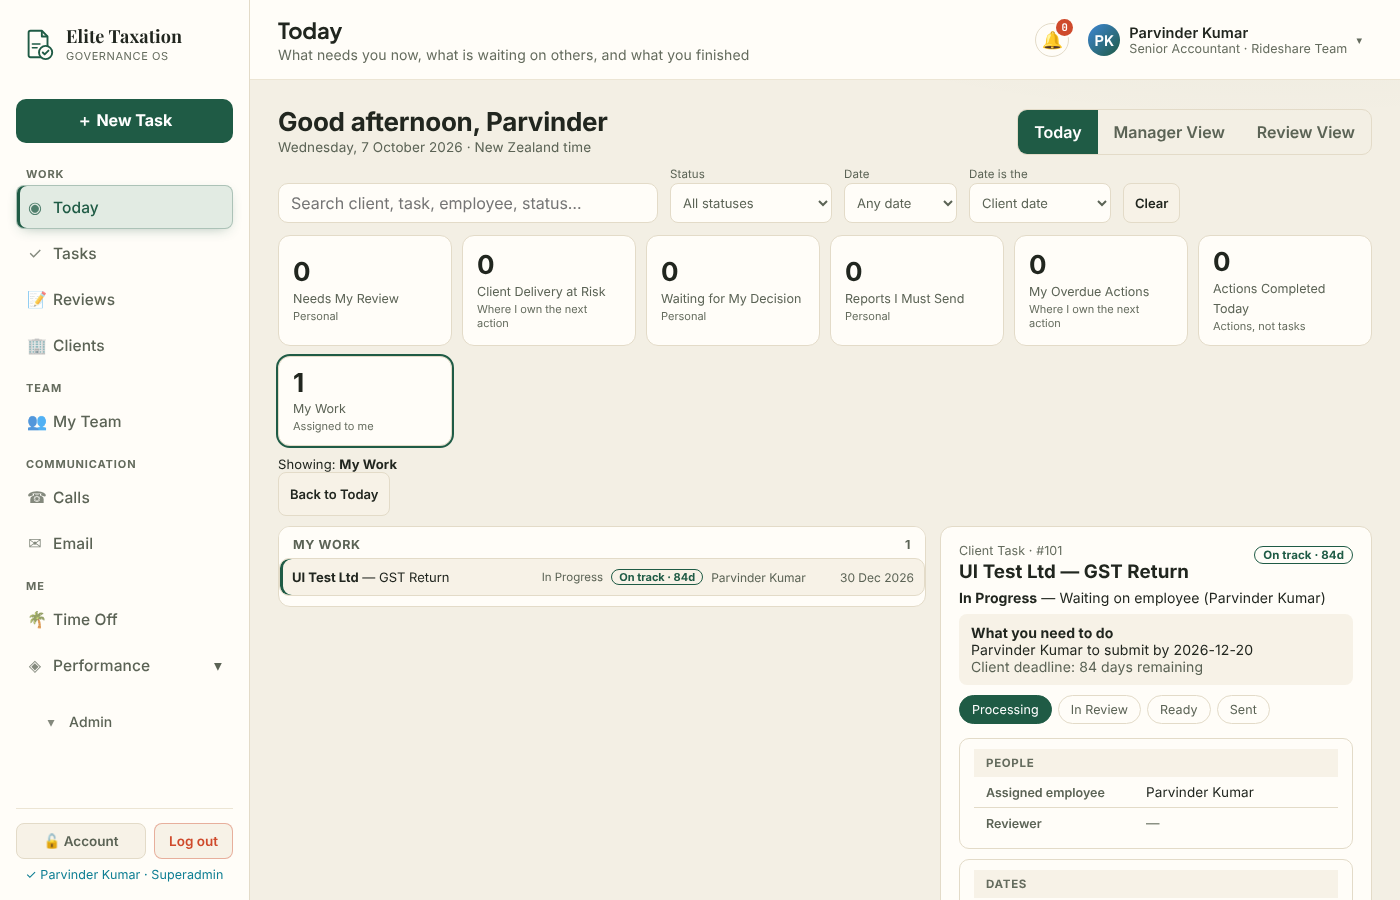
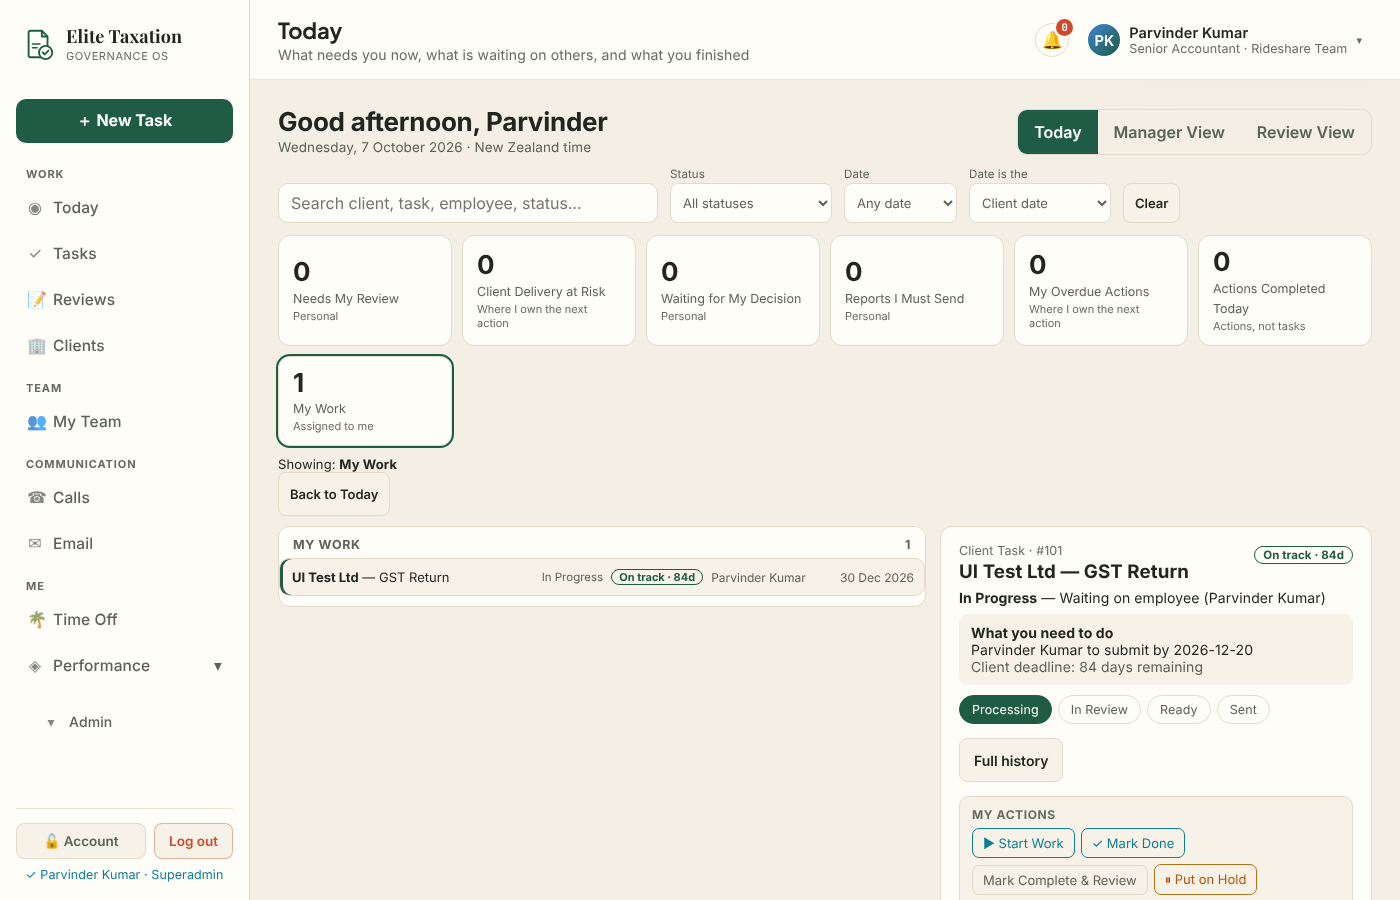
Task panel: actions and Links first, then attachments/note, then People / Dates / Work (#18)
Claude-Session: https://claude.ai/code/session_01TFz37WsK4YfF9KR41qGYsD

Changed region(s): [[0.6757, 0.84, 0.8907, 0.9956], [0.0, 0.1867, 0.1843, 0.28]]

diff --git a/public/index.html b/public/index.html
@@ -8015,23 +8015,24 @@ function tdDetailHtml(id, given){
   } else if(mode === 'review'){
     facts = grp('Submission', fact('Submitted', c.submittedAt ? esc(dt(c.submittedAt)) + (c.assigneeName ? '<span class="sub">by ' + esc(c.assigneeName) + '</span>' : '') : ''), waitFact, fact('Previous corrections', c.reworkCount ? c.reworkCount + (c.correction ? ' · last: ' + esc(c.correction.category || '') : '') : 'None'))
       + grp('Dates', client, fact('Internal commitment', esc(c.commitment.label)))
-      + grp('Links', sheet, cash);
+      ;
   } else {
     facts = grp('People', fact('Assigned employee', esc(c.assigneeName || '')), fact('Reviewer', esc(c.reviewerName || '')))
       + grp('Dates', internal, client, fact('Employee\'s commitment', esc(c.commitment.label)))
-      + grp('Work', fact('Task type', esc(c.taskType || c.kindLabel)), fact('Allocated hours', c.allocatedHours != null ? esc(String(c.allocatedHours)) + ' h' : ''), waitFact, fact('Rework cycle', c.reworkCount ? String(c.reworkCount) : 'None'))
-      + grp('Links', sheet, cash);
+      + grp('Work', fact('Task type', esc(c.taskType || c.kindLabel)), fact('Allocated hours', c.allocatedHours != null ? esc(String(c.allocatedHours)) + ' h' : ''), waitFact, fact('Rework cycle', c.reworkCount ? String(c.reworkCount) : 'None'));
   }
-  // Attachments and the latest note come first — they are what the reviewer reads before the details
-  body += ((t.reviewAttachments || []).length ? '<div style="margin:0 0 10px;"><b style="font-size:12px;color:var(--text-faint);text-transform:uppercase;">Attachments</b>' + downloadListHtml(t.reviewAttachments) + '</div>' : '')
-    + (t.reviewNote ? '<div style="margin:0 0 12px;padding:10px 12px;border-radius:8px;background:var(--panel-2);font-size:13.5px;"><b>Latest note</b><br>' + esc(t.reviewNote) + '</div>' : '')
-    + facts;
+  const links = grp('Links', sheet, cash);
   const prim = given ? '' : tdPrimary(id);
   // Work assigned to ME: every action that belongs to it — accept, start, mark done, send for review, hold / client query, resume, dates
   const mineOpen = !given && t && t.assignedTo === currentViewerId && t.status !== 'completed' && t.status !== 'pending_approval';
-  if(mineOpen) body += '<div class="td-own"><b>My actions</b>' + actionCell(t) + '</div>';
   const mgrBtns = (mode === 'manager' && !given) ? ['reassign|Reassign', 'change_due|Edit dates', 'change_reviewer|Change reviewer'].map(x => { const [k, l] = x.split('|'); return '<button type="button" class="btn td-act" onclick="mtAction(\'' + k + '\',\'' + esc(id) + '\')">' + l + '</button>'; }).join('') : '';
-  body += '<div class="td-sticky" style="display:flex;gap:8px;flex-wrap:wrap;margin:6px 0 16px;">' + prim + mgrBtns + '<button type="button" class="btn td-act" onclick="openTaskTrailModal(\'' + esc(id) + '\')">Full history</button></div>';
+  // Order: actions (Open review / Full history) → My actions → Links → attachments + latest note → People / Dates / Work
+  body += '<div class="td-sticky" style="display:flex;gap:8px;flex-wrap:wrap;margin:6px 0 14px;">' + prim + mgrBtns + '<button type="button" class="btn td-act" onclick="openTaskTrailModal(\'' + esc(id) + '\')">Full history</button></div>'
+    + (mineOpen ? '<div class="td-own"><b>My actions</b>' + actionCell(t) + '</div>' : '')
+    + links
+    + ((t.reviewAttachments || []).length ? '<div style="margin:0 0 10px;"><b style="font-size:12px;color:var(--text-faint);text-transform:uppercase;">Attachments</b>' + downloadListHtml(t.reviewAttachments) + '</div>' : '')
+    + (t.reviewNote ? '<div style="margin:0 0 12px;padding:10px 12px;border-radius:8px;background:var(--panel-2);font-size:13.5px;"><b>Latest note</b><br>' + esc(t.reviewNote) + '</div>' : '')
+    + facts + '<div style="height:6px;"></div>';
   const { ev } = taskTimelineEvents(t);
   body += '<div style="font-weight:700;margin:6px 0 4px;">Timeline <span style="font-weight:400;color:var(--text-faint);font-size:12px;">(New Zealand time)</span></div>'
     + (ev.length ? ev.map(e => '<div style="display:grid;grid-template-columns:26px 1fr;gap:10px;padding:8px 0;border-top:1px solid var(--panel-border);"><div>' + e.icon + '</div><div><div style="font-size:13.5px;color:var(--text-dim);line-height:1.5;">' + e.text + '</div>' + (e.extra || '') + '<div style="font-size:11.5px;color:var(--text-faint);font-family:var(--font-mono);">' + (e.at ? esc(dt(e.at)) : '—') + '</div></div></div>').join('')
